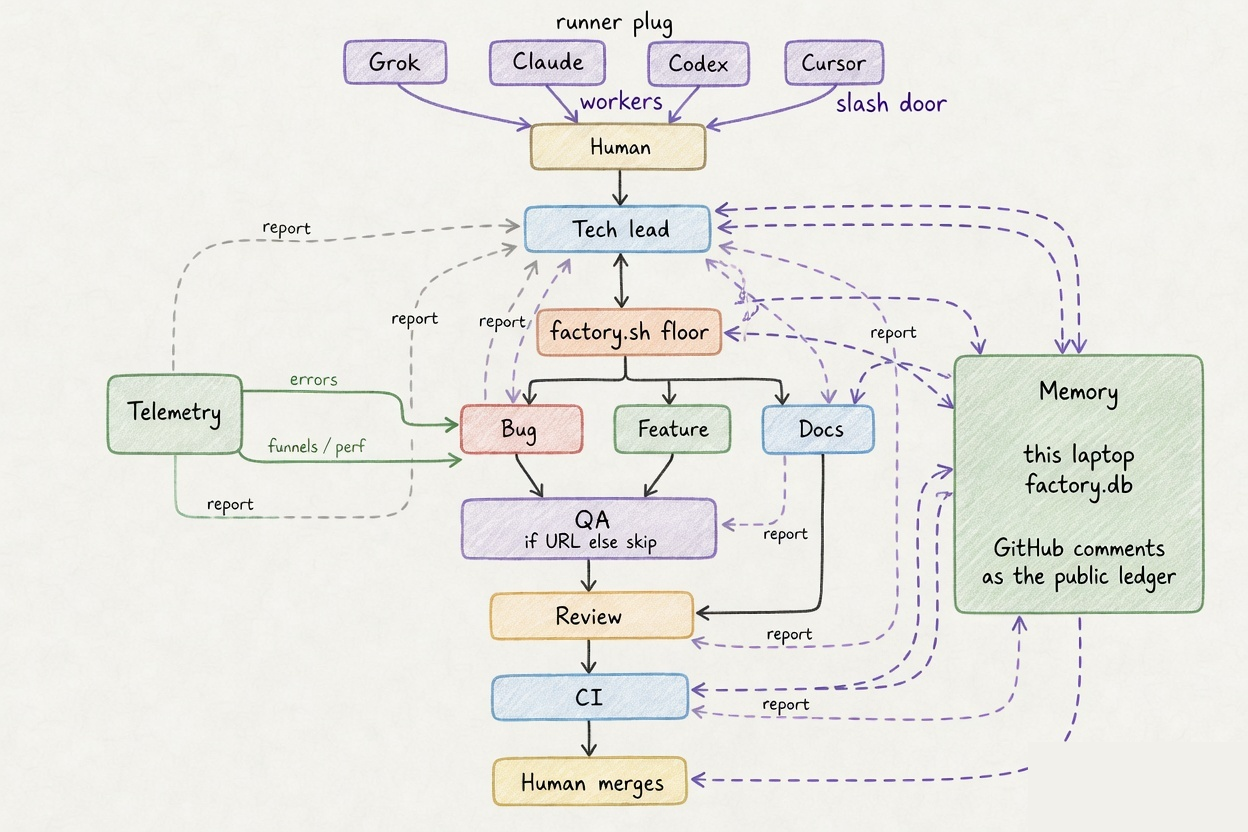
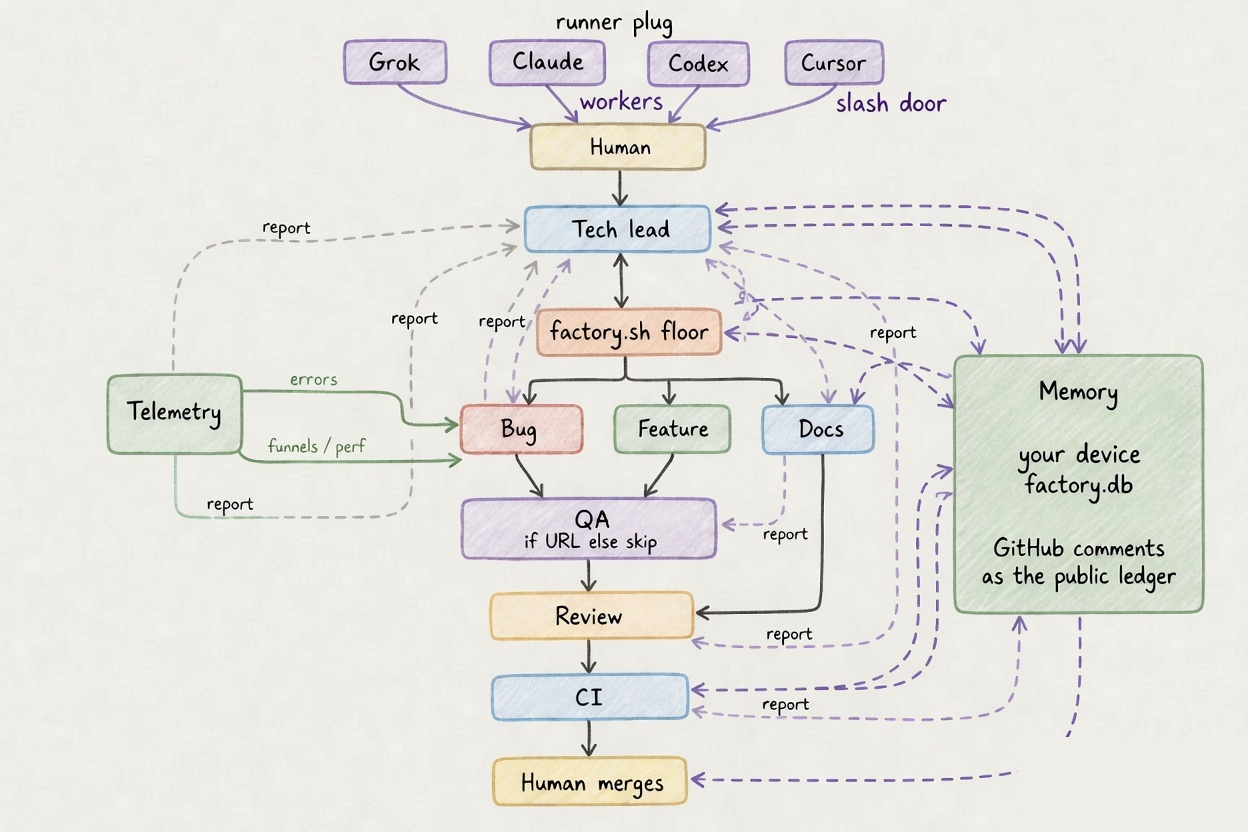
Say your device instead of this laptop.

diff --git a/README.md b/README.md
@@ -27,11 +27,11 @@ Cursor is a slash-command door, not a `factory.sh --runner`. `/lead` in Cursor s
 
 Two ledgers. Keep them apart.
 
-**This laptop.** `factory.sh mem write` and `mem read` hit `~/.factory/memory/factory.db`. The next `/bug` or `factory.sh feature` on this machine reads those rows at start. A worker writes `started` only if nothing is in progress, then `done`, `blocked`, or `failed`. If the db is missing, warn once and continue. Optional. Best-effort. Not git. Never `.env`.
+**Your device.** `factory.sh mem write` and `mem read` hit `~/.factory/memory/factory.db`. The next `/bug` or `factory.sh feature` on this machine reads those rows at start. A worker writes `started` only if nothing is in progress, then `done`, `blocked`, or `failed`. If the db is missing, warn once and continue. Optional. Best-effort. Not git. Never `.env`.
 
-**Everyone else.** On `done`, `blocked`, or `failed` (not `started`), the write comments on the GitHub issue or PR: status, URL, evidence, what next. That comment is the public ledger. Tech lead and another laptop read GitHub when this machine has no rows. Memory is a hint, not a lock.
+**Everyone else.** On `done`, `blocked`, or `failed` (not `started`), the write comments on the GitHub issue or PR: status, URL, evidence, what next. That comment is the public ledger. Tech lead and another device read GitHub when this machine has no rows. Memory is a hint, not a lock.
 
-Floor asks GitHub whether there is a PR, a review, and green checks. It asks this laptop's memory for `blocked` / `failed` and for "QA was skipped, no URL."
+Floor asks GitHub whether there is a PR, a review, and green checks. It asks this device's memory for `blocked` / `failed` and for "QA was skipped, no URL."
 
 ## Lanes
 
